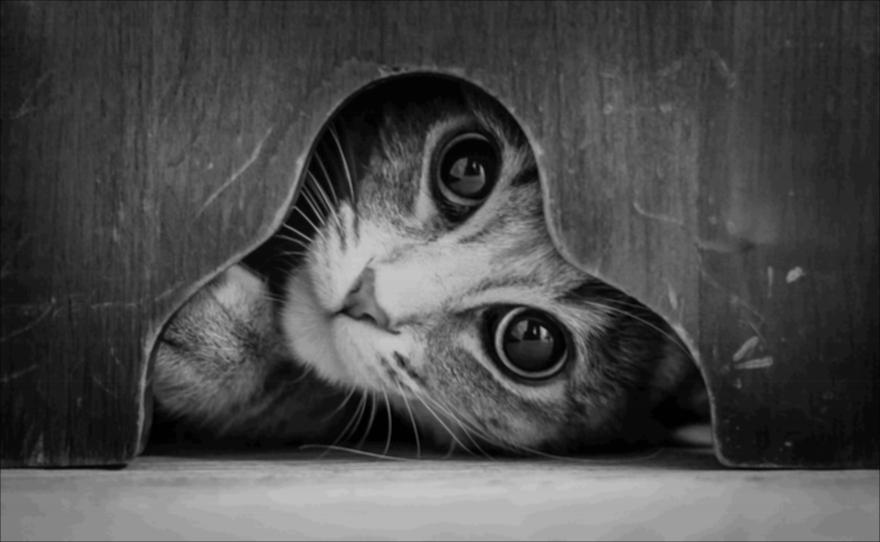
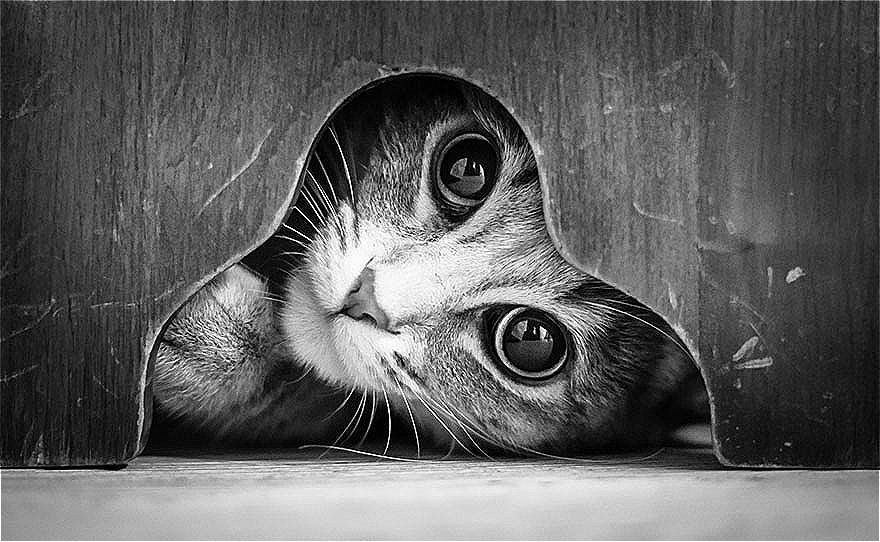
A2 produces black and white image

diff --git a/assignments/a2/eclipse_project/src/Image.java b/assignments/a2/eclipse_project/src/Image.java
@@ -1,0 +1,84 @@
+import java.awt.Color;
+import java.awt.Graphics;
+import java.awt.image.BufferedImage;
+import java.io.File;
+import java.io.IOException;
+import java.util.Arrays;
+
+import javax.imageio.ImageIO;
+
+public class Image {
+	private BufferedImage image;
+	private String fileName;
+	private int[] grayScaleValues;
+	private int[] computedGrayScales;
+	private int width;
+	private int height;
+	public static final int BLACK = 0;
+	public static final int WHITE = 255;
+
+	public Image(String fileLocation) {
+		try {
+			image = ImageIO.read(new File(fileLocation));
+			width = image.getWidth();
+			height = image.getHeight();
+			grayScaleValues = new int[height * width];
+			computedGrayScales = new int[height * width];
+			
+		} catch (IOException e) {
+			e.printStackTrace();
+		}
+	}
+
+	public BufferedImage getImage() {
+		return image;
+	}
+	
+	public void makeImageBlackAndWhite(String newFileName) {
+		storeGrayValues();
+		for (int y = 0; y < height; y++) {
+			for (int x = 0; x < width; x++) {
+				int position = y * width + x;
+				
+				computedGrayScales[position] = grayScaleValues[position] > 150 ? 255 : 0;
+			}
+		}
+		createNewConvolutedImage(newFileName);
+	}
+	
+	private void createNewConvolutedImage(String newFileName) {
+		BufferedImage newImage = new BufferedImage(width, height, BufferedImage.TYPE_INT_RGB);
+	
+		for (int y = 0; y < height; y++) {
+			for (int x = 0; x < width; x++) {
+				int value = computedGrayScales[y * width + x];
+				value = value > 255 ?  255 : value;
+				value = value < 0 ? 0 : value;
+				int rgb = new Color(value, value, value).getRGB();
+				newImage.setRGB(x, y, rgb);
+			}
+	    }
+		try {
+			ImageIO.write(newImage, "jpg", new File(newFileName));
+		} catch (IOException e) {
+			e.printStackTrace();
+		}
+		
+		ImageJPanel imageJpanel = new ImageJPanel(image, newImage);
+		imageJpanel.displayImage();
+	} 
+
+	private void storeGrayValues() {
+		for (int y = 0; y < height; y++) {
+			for (int x = 0; x < width; x++) {
+			    int p = image.getRGB(x,y);
+			    int r = (p>>16)&0xff;
+			    int g = (p>>8)&0xff;
+			    int b = p&0xff;
+			    int grayScaleValue = (r + g + b) / 3;
+			    grayScaleValues[y * width + x] = grayScaleValue;
+		
+			}
+	    }
+	}
+}

diff --git a/assignments/a2/eclipse_project/src/ImageJPanel.java b/assignments/a2/eclipse_project/src/ImageJPanel.java
@@ -1,0 +1,36 @@
+
+import java.awt.*;
+import java.awt.image.BufferedImage;
+import java.io.*;
+import javax.imageio.ImageIO;
+import javax.swing.*;
+ 
+public class ImageJPanel extends JPanel {
+    BufferedImage original;
+    BufferedImage altered;
+    Dimension size = new Dimension();
+ 
+    public ImageJPanel(BufferedImage originalImage, BufferedImage altertedImage) {
+        original = originalImage;
+        altered = altertedImage;
+    }
+
+    protected void displayImage() {
+        JPanel panel = new JPanel();
+        
+        JLabel label = new JLabel(new ImageIcon(original));
+        panel.add(label);
+        
+        JLabel label2 = new JLabel(new ImageIcon(altered));
+        panel.add(label2);
+     
+        JFrame.setDefaultLookAndFeelDecorated(true);
+        JFrame frame = new JFrame("Altered Image");
+        frame.setDefaultCloseOperation(JFrame.EXIT_ON_CLOSE);
+     
+        frame.add(panel); 
+        frame.pack();
+        frame.setVisible(true);
+    }
+
+}

diff --git a/assignments/a1/final_submission/code/Main.java b/assignments/a1/final_submission/code/Main.java
@@ -5,10 +5,10 @@ import javax.imageio.ImageIO;
 public class Main {
   public static void main(final String args[]) throws Exception {
 	// Sharpen
-	//float[] operator = { 0, -1, 0, -1, 5f, -1, 0, -1, 0 };
+	float[] operator = { 0, -1, 0, -1, 5f, -1, 0, -1, 0 };
 	
 	// Blur
-	float[] operator = { 0.1f, 0.1f, 0.1f, 0.1f, 0.1f, 0.1f, 0.1f, 0.1f, 0.1f};
+	//float[] operator = { 0.1f, 0.1f, 0.1f, 0.1f, 0.1f, 0.1f, 0.1f, 0.1f, 0.1f};
     Image image = new Image("cat.jpg");
     image.convoluteImage(operator, "image_convoluated.jpg");
   }

diff --git a/assignments/a2/eclipse_project/src/Main.java b/assignments/a2/eclipse_project/src/Main.java
@@ -1,5 +1,3 @@
-package a1;
-
 public class Main {
   public static void main(final String args[]) throws Exception {
 	// Sharpen
@@ -9,6 +7,6 @@ public class Main {
 	float[] operator = { 0.1f, 0.1f, 0.1f, 0.1f, 0.1f, 0.1f, 0.1f, 0.1f, 0.1f};
 
     Image image = new Image("cat.jpg");
-    image.convoluteImage(operator, "image_altered.jpg");
+    image.makeImageBlackAndWhite("image_altered.jpg");
   }
 }
